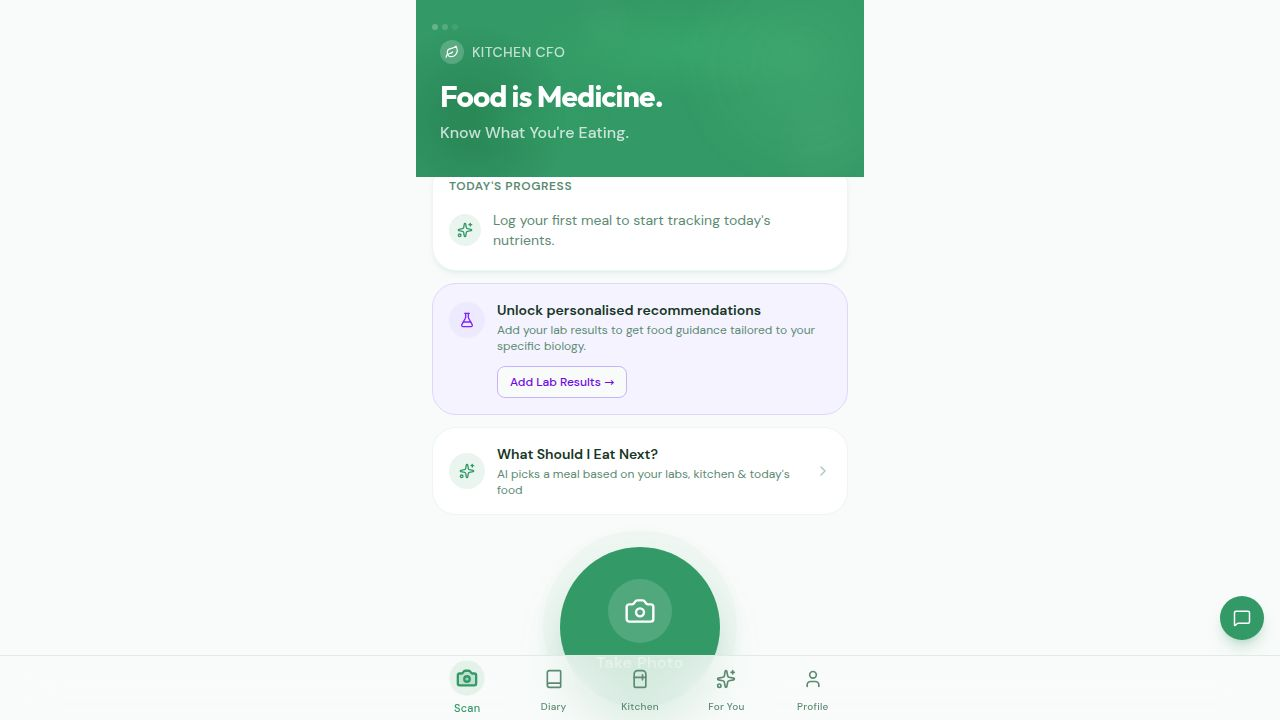
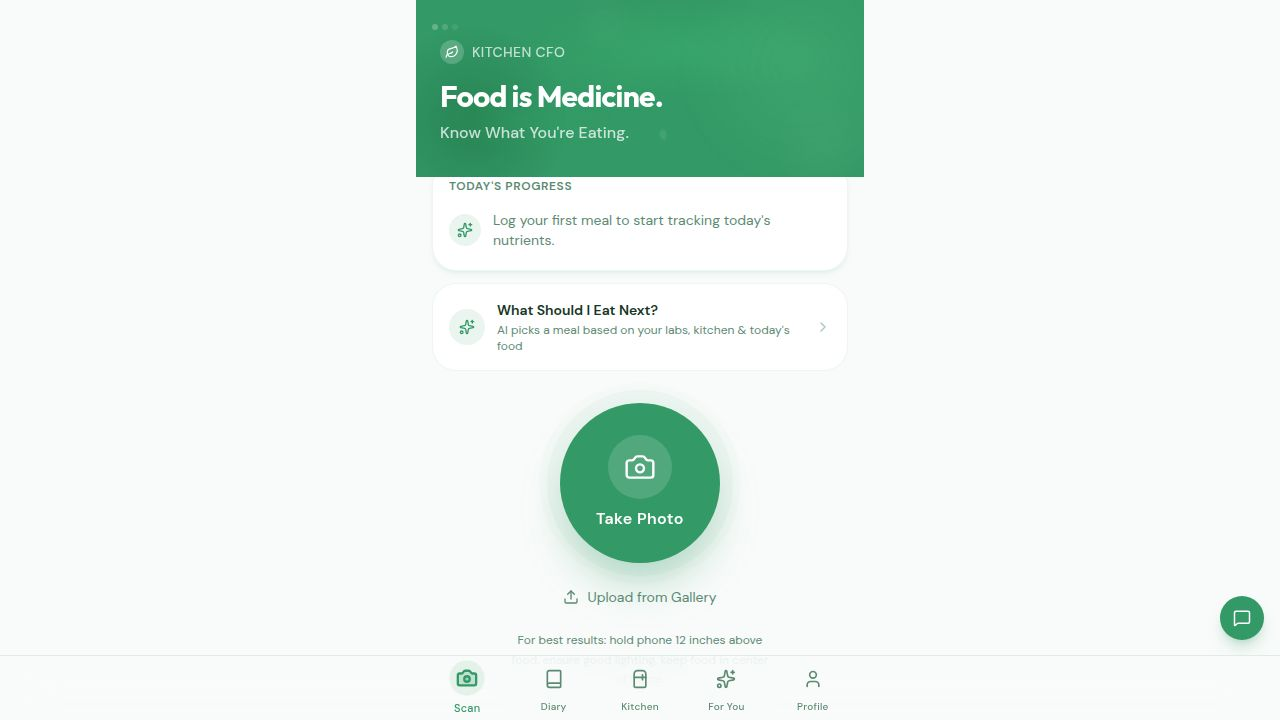
Task #21: Landing Page QR Code
Added a QR code to the landing page footer that links to https://kitchen-intelligence.replit.app.

## Changes

### artifacts/kitchen-cfo/src/pages/Landing.tsx
- Added `useEffect` and `useRef` imports from React (Landing was previously a
  pure JSX component with no hooks; converted to use hooks while keeping it a
  default-exported function component).
- Added `import QRCode from "qrcode"` for client-side QR generation.
- Defined `APP_URL = "https://kitchen-intelligence.replit.app"` as a module-level const.
- Added `qrCanvasRef = useRef<HTMLCanvasElement>(null)`.
- Added `useEffect` that calls `QRCode.toCanvas(qrCanvasRef.current, APP_URL, { width: 128, margin: 2, color: { dark: "#1a1a1a", light: "#ffffff" } })` after mount.
- Inserted a centered `<div>` in the footer containing:
  - `<canvas ref={qrCanvasRef}>` with aria-label and rounded-lg shadow-sm styling.
  - `<p>` caption: "Scan to open Kitchen CFO on your phone." (text-xs text-muted-foreground).
  - Placed directly above the existing medical disclaimer paragraph, matching
    the footer's flex-col items-center gap-6 layout.

### package.json (artifacts/kitchen-cfo)
- Added `qrcode` and `@user/qrcode` dependencies.

## No deviations from spec
- QR code is centered, above the disclaimer, with the exact specified caption.
- Client-side generation using the qrcode package as specified.
- No server-side changes.

Changed region(s): [[0.3438, 0.5194, 0.625, 0.9778], [0.3438, 0.4278, 0.625, 0.4889]]

diff --git a/artifacts/kitchen-cfo/src/pages/Landing.tsx b/artifacts/kitchen-cfo/src/pages/Landing.tsx
@@ -1,8 +1,27 @@
+import { useEffect, useRef } from "react";
 import { Link } from "wouter";
 import { Camera, FlaskConical, Sparkles, Check, X, ArrowRight, Leaf, Stethoscope, ChevronDown } from "lucide-react";
 import { Button } from "@/components/ui/button";
+import QRCode from "qrcode";
+
+const APP_URL = "https://kitchen-intelligence.replit.app";
 
 export default function Landing() {
+  const qrCanvasRef = useRef<HTMLCanvasElement>(null);
+
+  useEffect(() => {
+    if (qrCanvasRef.current) {
+      QRCode.toCanvas(qrCanvasRef.current, APP_URL, {
+        width: 128,
+        margin: 2,
+        color: {
+          dark: "#1a1a1a",
+          light: "#ffffff",
+        },
+      });
+    }
+  }, []);
+
   return (
     <div className="min-h-screen bg-background text-foreground font-sans overflow-x-hidden" style={{ scrollBehavior: "smooth" }}>
 
@@ -306,6 +325,17 @@ export default function Landing() {
                 Try it free <ArrowRight className="w-3 h-3 ml-1.5" />
               </Button>
             </Link>
+          </div>
+
+          <div className="flex flex-col items-center gap-2">
+            <canvas
+              ref={qrCanvasRef}
+              className="rounded-lg shadow-sm"
+              aria-label="QR code to open Kitchen CFO on your phone"
+            />
+            <p className="text-xs text-muted-foreground text-center">
+              Scan to open Kitchen CFO on your phone.
+            </p>
           </div>
 
           <p className="text-xs text-muted-foreground text-center max-w-md leading-relaxed">